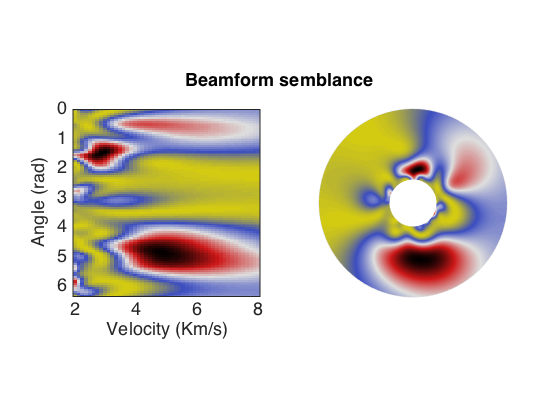
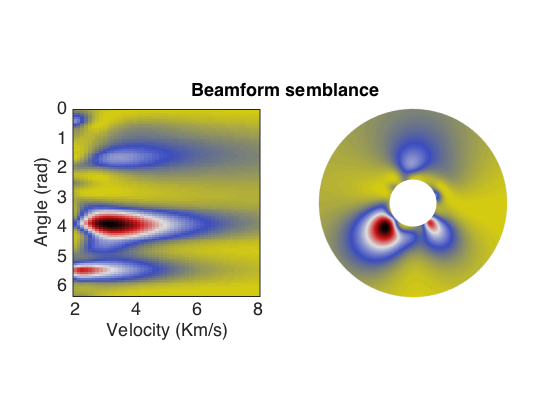
more more pics

diff --git a/projects/wave-proc/beamforming/beamform_ex_synth.m b/projects/wave-proc/beamforming/beamform_ex_synth.m
@@ -9,32 +9,26 @@ clc
 prompt = '\n   do you want an average or mono frequency beamforming? (a or m): ';
 ave_mono = input(prompt,'s');
 % ..............................................................................
-% data bandpass
+% synthetic parameters
 % ..............................................................................
-% below 0.1 Hz is microseismic energy.
-% but actually, nothing coherent comes 
-% out until 1 Hz.
-% above 5 Hz is noise energy.
-f_high= 5; % Hz
-f_low = 1; % Hz
+vo = 4; % Km/s
+fo = 2; % Hz
+wo = 2*pi*fo;
 % ..............................................................................
 % beamforming parameters
 % ..............................................................................
-% individual frequency
-fo = 2; % Hz
 % frequency range
-f_low_ = 1; % Hz
-f_high_= 3.5; % Hz
-fo_ = linspace(f_low_,f_high_,10);
+f_low_ = 0.5; % Hz
+f_high_= 5; % Hz
+fo_ = linspace(f_low_,f_high_,100);
 % velocity range
-v_min = 2; % Km/s
+v_min = 2.5; % Km/s
 v_max = 8; % Km/s
 v = linspace(v_min,v_max,50);
 % angle range
 theta = linspace(0,2*pi,100);
 % ..............................................................................
 path_data = '../../../data/dylan-array/';
-name_data = 'array_data_example.mat';
 name_locs = 'stationCoordinatesYX_in_km.txt';
 % ..............................................................................
 receivers = load(strcat(path_data,name_locs));
@@ -44,43 +38,40 @@ r(:,2) = receivers(:,1);
 nr = length(r(:,1));
 clear receivers
 % ..............................................................................
-arr = load(strcat(path_data,name_data));
-d = arr.dta;
-d = d';
-% d is ( nt x nr ) matrix
-[nt,nr] = size(d);
+sources = zeros(nr,2);
 
-% sample rate is 200[Hz]
+% sources(:,1) = -70;
+% sources(:,2) = r(:,2);
+
+sources(:,2) = -70;
+sources(:,1) = r(:,1);
+% ..............................................................................
+% sample rate will be 200 Hz
+nt = 7200;
 fs = 200;
 fny = fs/2;
 dt = 1/fs;
 T = (nt-1)*dt;
 t = 0:dt:T;
+t = t.';
 % ..............................................................................
-figure;
-hold on
-for i=1:nr
-plot(t,d(:,i) + (i-1)*0.2)
+% synth data
+% ..............................................................................
+% wavelet
+wvlet = @(to) ( 1-0.5*(wo^2)*(t-to).^2 ) .* exp( -0.25*(wo^2)*(t-to).^2 );
+d = zeros(nt,nr);
+
+for ir = 1:nr
+ to_ = norm(sources(ir,:)-r(ir,:))/vo;
+ d(:,ir) = wvlet(to_);
 end
-hold off
-axis tight
-xlabel('Time (s)')
-ylabel('Amplitude')
-title('Raw data')
-simple_figure();
-% ..............................................................................
-% detrend and demean
-d = detrend(d,1);
-d = d-repmat(mean(d,1),nt,1);
-% ..............................................................................
-% filter
-d = filt_gauss(d,dt,f_low,f_high,10);
 % ..............................................................................
 figure('Renderer', 'painters', 'Position', [10 10 400 700]);
 subplot(211)
 hold on
-for i_=1:nr
-plot(r(i_,1),r(i_,2),'.','markersize',40)
+for ir=1:nr
+ plot(r(ir,1),r(ir,2),'.','markersize',40)
+% plot(sources(ir,1),sources(ir,2),'rp','markersize',10,'MarkerFaceColor','red')
 end
 hold off
 grid on
@@ -95,40 +86,29 @@ simple_figure();
 subplot(212)
 hold on
 for i=1:nr
-plot(t,d(:,i) + (i-1)*0.2)
+plot(t,d(:,i) + (i-1)*2)
 end
 hold off
 axis tight
 axis square
 xlabel('Time (s)')
 set(gca,'yticklabel',[])
-title('Filtered data')
+title('Data')
 simple_figure();
 % ..............................................................................
 % frequency domain
 [d_,f,df] = fourier_rt(d,dt);
-
-figure;
-% plot(f,sum(abs(d_),2));
-h=fill(f(1:binning(f,10)),sum(abs(d_(1:binning(f,10),:)),2),[0,0,0]);
-set(h,'EdgeColor',[0,0,0]);
-axis tight
-xlabel('Frequency (Hz)')
-ylabel('Power')
-set(gca,'yticklabel',[])
-title('Filtered data')
-simple_figure();
 % ..............................................................................
 % 
 %       beamforming velocity vs angle
 % 
 % ..............................................................................
 if strcmp(ave_mono,'m')
-    % individual frequency
-    b = beamformer_(fo,r,d_,f,v,theta);
+ % individual frequency
+ b = beamformer_(fo,r,d_,f,v,theta);
 elseif strcmp(ave_mono,'a')
-    % average of an array of frequencies
-    b = beamformer_thetav(fo_,r,d_,f,v,theta);
+ % % average of an array of frequencies
+ b = beamformer_thetav(fo_,r,d_,f,v,theta);
 end
 % ..............................................................................
 b=abs(b).^2;
@@ -169,11 +149,11 @@ sy = linspace(-slow_max,slow_max,50);
 [sX,sY] = meshgrid(sx,sy);
 % ..............................................................................
 if strcmp(ave_mono,'m')
-    % individual frequency
-    b = beamformer(fo,r,d_,f,sX,sY);
+ % individual frequency
+ b = beamformer(fo,r,d_,f,sX,sY);
 elseif strcmp(ave_mono,'a')
-    % average of frequencies
-    b = beamformer_sxsy(fo_,r,d_,f,sX,sY);
+ % average of frequencies
+ b = beamformer_sxsy(fo_,r,d_,f,sX,sY);
 end
 % ..............................................................................
 b=abs(b).^2;
@@ -190,6 +170,5 @@ simple_figure();
 % ..............................................................................
 % plot like haney
 b = beamformer(fo,r,d_,f,sX,sY);
-wo= 2*pi*fo;
 beamPlot( b, sX, sY, slow_max, wo );
 % ..............................................................................

diff --git a/projects/wave-proc/stft/stft_ex.m b/projects/wave-proc/stft/stft_ex.m
@@ -1,0 +1,53 @@
+close all
+clear
+clc
+% ..............................................................................
+% diego domenzain
+% fall 2020
+% Colorado School of Mines
+% ..............................................................................
+to = 3;
+fo = 2; % Hz
+wo = 2*pi*fo;
+
+co = 0;
+bo = 0.8;
+% ..............................................................................
+% sample rate will be 200 Hz
+nt = 3000;
+fs = 200;
+fny = fs/2;
+dt = 1/fs;
+T = (nt-1)*dt;
+t = 0:dt:T;
+t = t.';
+% ..............................................................................
+wvlet_ = @(to,wo) ( 1-0.5*(wo^2)*(t-to).^2 ) .* exp( -0.25*(wo^2)*(t-to).^2 );
+wvlet__= @(to,wo,bo,co) exp(-((t-to).^2)./(bo^2)) .* cos(wo*(t-to) + co);
+% ..............................................................................
+wvlet = wvlet__(to,wo,bo,co) + wvlet__(2.5*to,2*wo,bo,co) + wvlet__(4*to,4*wo,bo,co) + sin((2*pi/t(nt))*t);
+% ..............................................................................
+max_=max(wvlet);
+min_=min(wvlet);
+% ..............................................................................
+[stft_, f, gau_] = stft(wvlet, dt, t, 6, 2);
+stft_=normali(stft_);
+% ..............................................................................
+figure('Renderer', 'painters', 'Position', [10 10 600 500]);
+subplot(211)
+plot(t,wvlet);
+ylim([min_-0.1,max_+0.1])
+set(gca,'yticklabel',[])
+title('Data and STFT')
+simple_figure()
+subplot(2,1,2)
+% fancy_imagesc(abs(stft_),t,f);
+fancy_imagesc(abs(stft_(1:binning(f,9),:)),t,f(1:binning(f,9)));
+colormap(rainbow2(1))
+colorbar('off')
+axis xy
+axis normal
+xlabel('Time (s)')
+ylabel('Frequency (Hz)')
+simple_figure()
+% ..............................................................................

diff --git a/src/matlab/array_transfer.m b/src/matlab/array_transfer.m
@@ -1,0 +1,27 @@
+function A = array_transfer(r,theta,vo,wo)
+% 
+% output
+% A = array transfer matrix (receiver x direction angle).
+% 
+% I like to think of this matrix as a sort of instrument response but for arrays , 
+% and in the space−frequency domain.
+% Because it is in the space−frequency domain , its nature is static , 
+% and operates with the time domain.
+% 
+% input
+% r = receiver locations. (n x 2) matrix.
+% vfix = fixed velocity. (1 x 1) matrix.
+% theta = discretized space angle. (1 x ntheta) matrix.
+% vo = velocity of chosen direction. (1 x 1) matrix.
+% thetao = space angle of chosen direction. (1 x 1) matrix.
+% wo = fixed frequency angle. (1 x 1) matrix.
+
+nr = numel(r(:,1));
+
+% kstar vector 
+%
+kx = (wo/vo) * cos(theta); 
+ky = (wo/vo) * sin(theta); 
+kstar = [kx' ky'];
+A = (1/nr) * exp(1i * ( r * kstar' )); 
+end

diff --git a/src/matlab/stft.m b/src/matlab/stft.m
@@ -1,0 +1,35 @@
+function [stft_, f, gau_] = stft(x, dt, t, alph, width_)
+%
+% 
+% ------------------------------------------------------------------------------
+x = x(:);
+t = t(:);
+nt= numel(x);
+% ------------------------------------------------------------------------------
+nt_=2^nextpow2(nt)+nt*0.1;
+df = 1/dt/nt_;
+f  = (1:ceil(nt_/2)-1)*df;
+
+nt_extra = nt_-nt;
+x = [x; zeros(nt_extra,1)];
+t = [t ; ((t(nt)+dt) : dt : (dt*nt_extra+t(nt))).'];
+% ------------------------------------------------------------------------------
+gau_ = zeros(nt,numel(x));
+nf   = numel(f);
+stft_= zeros(nf, nt);
+for il = 1:nt
+    
+    lo = t(il);
+    
+    gau = exp( -alph * ( ( ( t - lo ) ./ width_ ).^2 ) );
+
+    x_ = x.*gau;
+    
+    x_ = fft(x_);
+
+    x_ = x_(1:ceil(nt_/2)-1);
+
+    stft_(:, il) = x_;
+    gau_(il,:) = gau;
+end
+end

diff --git a/src/matlab/beamformer_.m b/src/matlab/beamformer_.m
@@ -12,19 +12,9 @@ k = [cos(theta).' sin(theta).'];
 % kv*r.' * d_(ifo,:).' is of size (theta by 1)
 % 
 b = zeros(ntheta,nv);
-for i=1:nv
-  kv = k/v(i);
-  b(:,i) = exp(1i*2*pi*fo*kv*r.') * (d_(binning(f,fo),:).');
+for iv=1:nv
+  kv = k/v(iv);
+  b(:,iv) = exp(1i*2*pi*fo*kv*r.') * (d_(binning(f,fo),:)');
 end
 b = b/nr;
-% % kv*r.' is of size (theta by r)
-% % kv*r.' * d_.' is of size (theta by f)
-% % 
-% k_v_f = zeros(ntheta,nf,nv);
-% for i=1:nv
-%   kv = k/v(i);
-%   k_v_f(:,:,i) = exp(1i*fo*kv*r.') * (d_.'); % * (some weight);
-% end
-% % k_v_f is to be stacked on frequencies,
-% b = squeeze(sum(k_v_f,2)) / nf;
 end

diff --git a/src/matlab/beamformer.m b/src/matlab/beamformer.m
@@ -24,11 +24,6 @@ b = zeros( size(sX) );
 %
 ifo = binning(f,fo);
 
-% % we don't want all data, 
-% % just rows of frequency fo
-% %
-% d_ = d_(ifo,:);
-
 % now beamform loop on receivers 
 % because dylan hasn't taught me
 % matrix algorithm for beamforming :(

diff --git a/projects/wave-proc/stft/README.md b/projects/wave-proc/stft/README.md
@@ -1,0 +1,9 @@
+# Short time Fourier transform 
+diego domenzain
+September 2020 @ Colorado School of Mines
+
+## STFT
+
+Find the frequencies that make up a signal at each time.
+
+__This script is an example of finding the STFT of a signal.__
